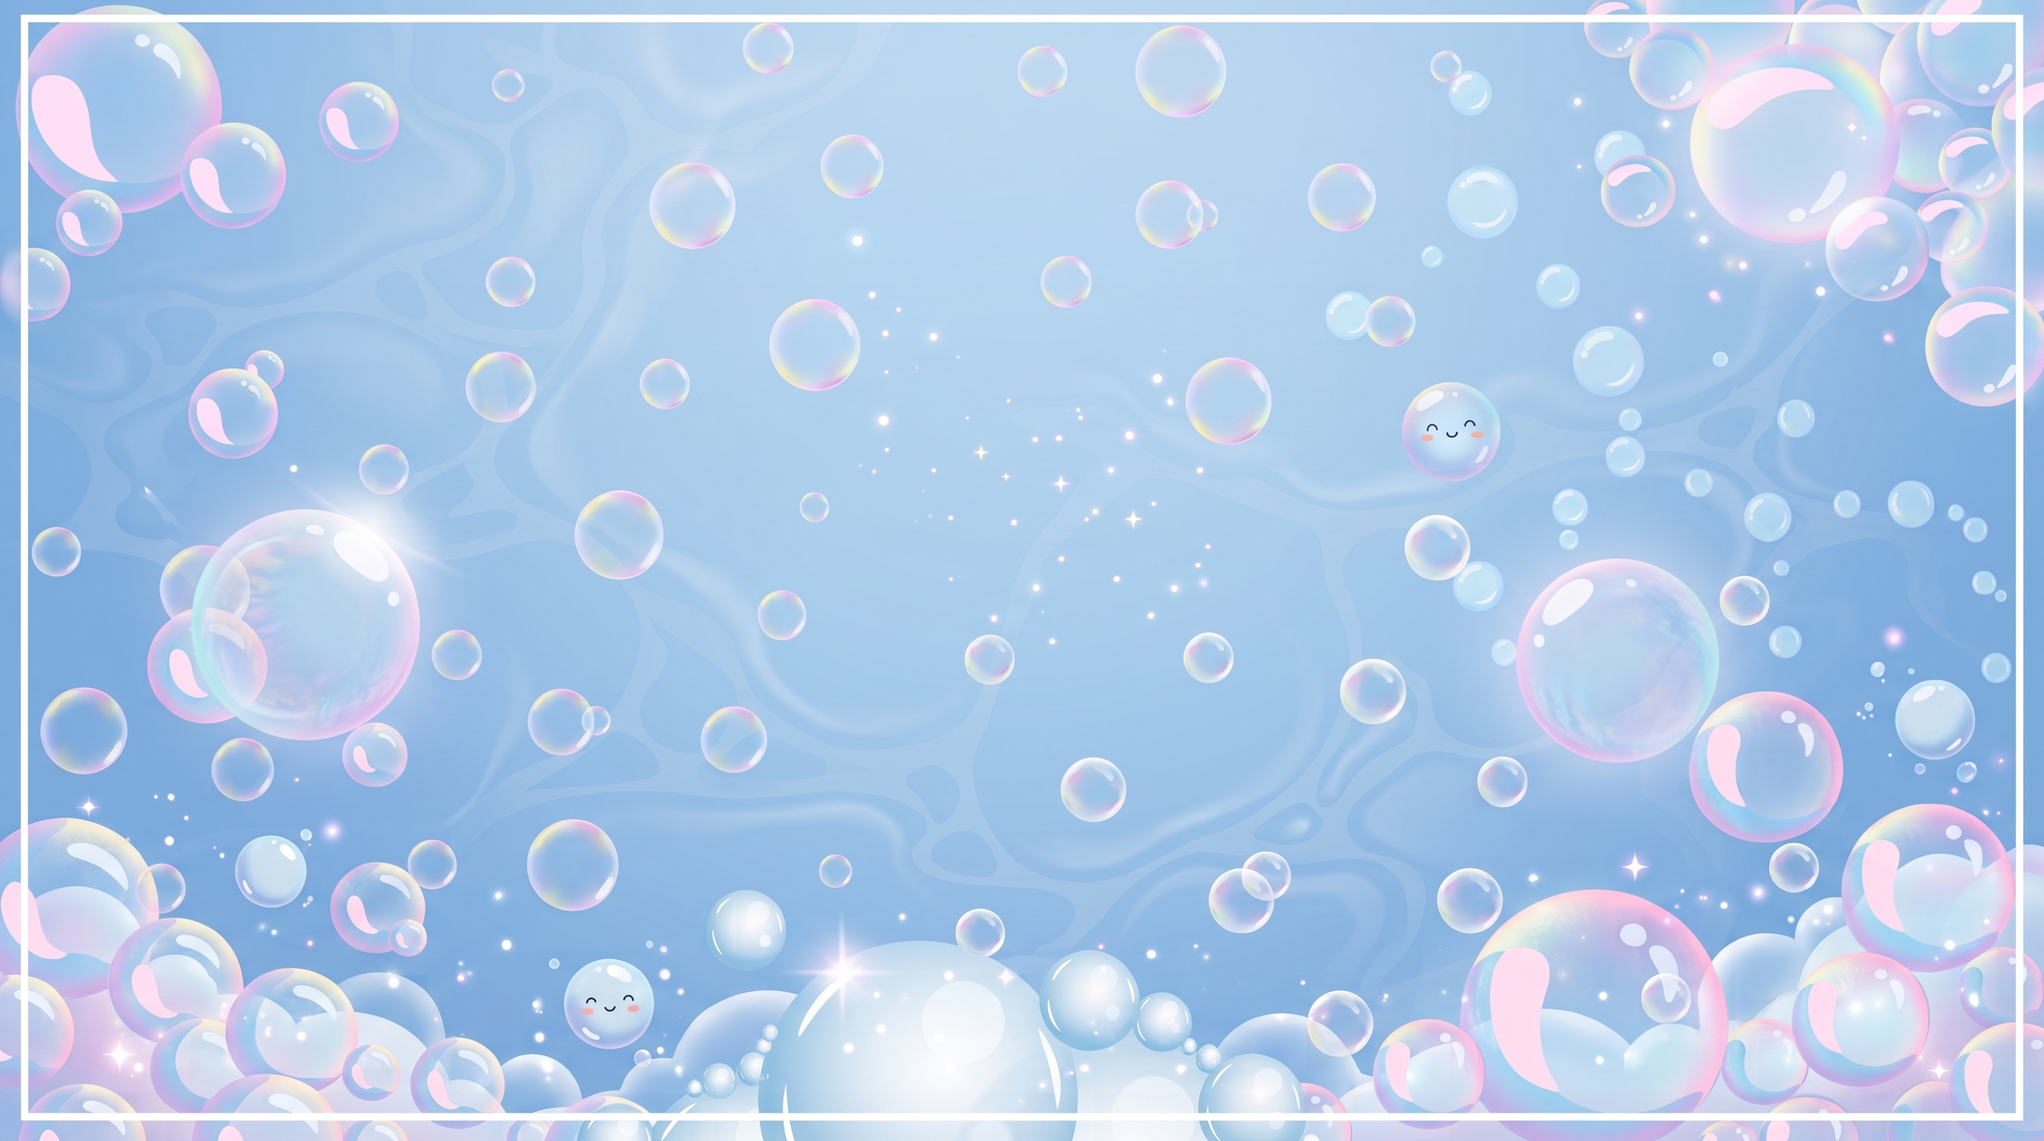
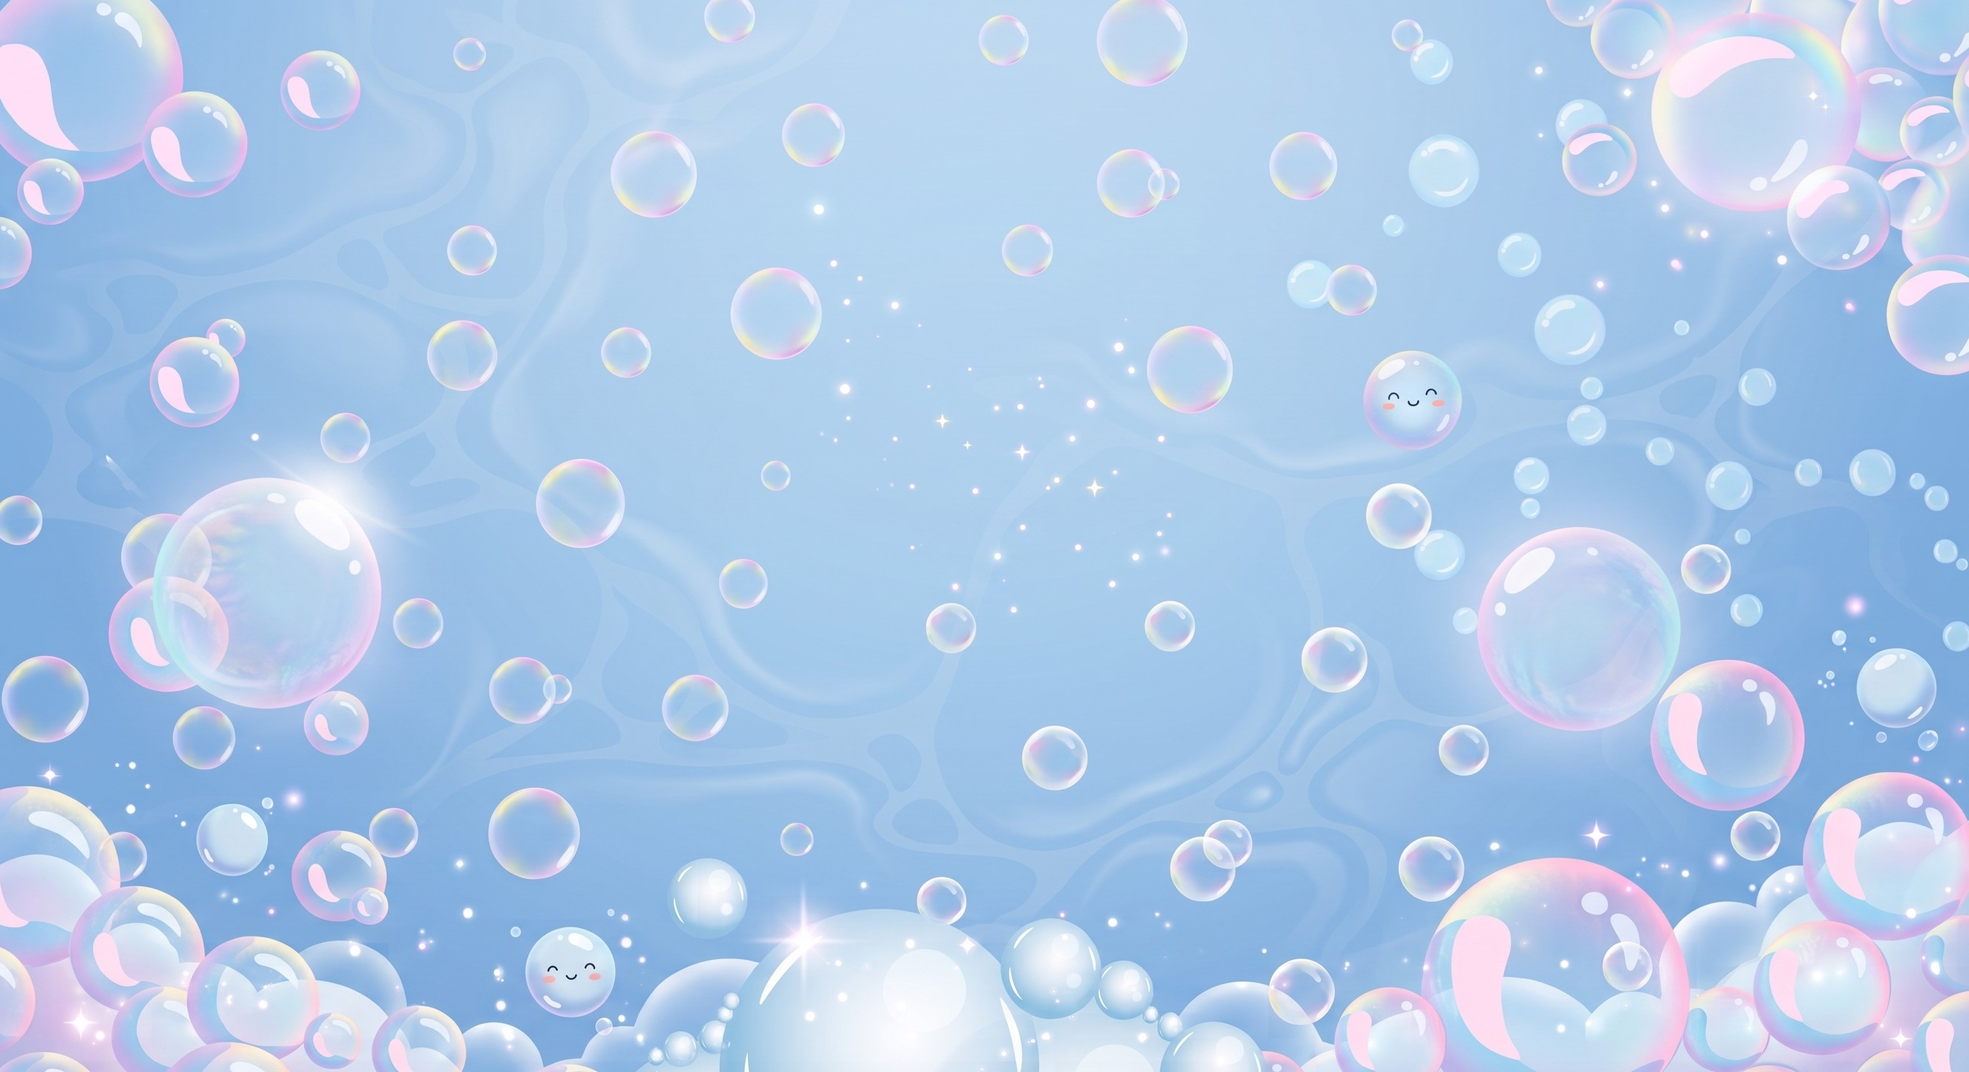
UI refine template

diff --git a/pabasa_site/pabasa_app/templates/pabasa_app/word_decoding_page.html b/pabasa_site/pabasa_app/templates/pabasa_app/word_decoding_page.html
@@ -1,7 +1,7 @@
 {% load static %}
 <!doctype html><html lang="en"><head><meta charset="utf-8"><meta name="viewport" content="width=device-width,initial-scale=1"><title>Decode the Word | PABASA</title><link rel="stylesheet" href="https://cdn.jsdelivr.net/npm/bootstrap-icons@1.11.3/font/bootstrap-icons.min.css"><style>
 @font-face{font-family:"Super Bubble";src:url("{% static 'pabasa_app/font/Super Bubble.ttf' %}") format("truetype");font-weight:normal;font-style:normal;font-display:swap}
-:root{--ink:#12395a;--green:#68ce94}*{box-sizing:border-box}body{margin:0;min-height:100dvh;overflow:hidden;color:var(--ink);font-family:"Super Bubble",Arial,sans-serif;background:#a8cdeb url("{% static 'pabasa_app/images/word-decoding-bg.jpg' %}") center / cover no-repeat fixed}button{font-family:inherit}.app{min-height:100dvh;display:grid;place-items:center;padding:22px}.back{position:fixed;z-index:4;top:22px;left:22px;padding:9px 15px;border:2px solid #fff;color:#fff;text-decoration:none;border-radius:999px;background:#0d5d9199;font-weight:900}.round{position:fixed;z-index:4;top:27px;right:28px;color:#fff;font-weight:1000;text-shadow:0 2px #0e5683}.board{position:relative;width:min(800px,100%);padding:clamp(32px,5vw,56px);border:7px solid #eaffff;border-radius:38px;text-align:center;background:linear-gradient(145deg,#ffffffdb,#c9f8f4e6);box-shadow:0 18px 0 #126a9b99,0 30px 58px #0b416466;overflow:hidden}.board:before{content:"";position:absolute;inset:auto -10% -79%;height:85%;border-radius:50%;background:#66d2e7;opacity:.34}.board>*{position:relative}.eyebrow{margin:0 0 9px;color:#0b6897;font-size:.82rem;font-weight:1000;letter-spacing:.14em;text-transform:uppercase}.word{margin:0;font-size:clamp(2.8rem,10vw,5.8rem);line-height:1;color:#0b4c79;text-shadow:0 3px #fff}.plus{padding:0 .16em;color:#f29a43}.instruction{margin:16px 0;font-size:clamp(1rem,2.5vw,1.2rem);font-weight:900}.checks{display:flex;justify-content:center;gap:clamp(9px,2vw,18px);min-height:64px;margin-bottom:22px}.check{width:clamp(45px,8vw,65px);height:clamp(45px,8vw,65px);display:grid;place-items:center;border:3px dashed #62b8cf;border-radius:13px;color:#fff;background:#eaffff;font-size:clamp(1.8rem,5vw,2.6rem);font-weight:1000}.check.correct{border-style:solid;border-color:#52b979;background:var(--green)}.check.wrong{border-style:solid;border-color:#df5a6c;background:#ef7180}.choices{display:flex;justify-content:center;gap:clamp(18px,4vw,42px);margin:auto}.choice{position:relative;width:clamp(112px,20vw,154px);height:clamp(112px,20vw,154px);border:4px solid #fff;border-radius:50%;background:linear-gradient(145deg,#75dbe8,#258ebe);box-shadow:inset -14px -16px #07517a28,0 8px 0 #0d668f66;cursor:pointer;transition:.2s}.choice:nth-child(2){background:linear-gradient(145deg,#f9bb6a,#ed8252)}.choice:nth-child(3){background:linear-gradient(145deg,#a690e1,#7359ac)}.choice:hover:not(:disabled){transform:translateY(-7px) scale(1.04)}.choice:disabled{cursor:default}.listen{position:absolute;z-index:2;top:calc(100% + 12px);left:50%;width:46px;height:46px;border:3px solid #fff;border-radius:50%;color:#0d5d91;background:#ffec9b;box-shadow:0 4px 0 #bf8535;cursor:pointer;font-size:1.15rem;transform:translateX(-50%)}.choice-correct{outline:6px solid #fff4a7;filter:brightness(1.12)}.choice-wrong{filter:grayscale(.55);opacity:.6}.word-read{display:none;margin:auto;padding:14px 20px;border:0;border-radius:15px;color:#fff;background:linear-gradient(135deg,#f36e83,#c94f6d);box-shadow:0 6px 0 #96384f;font-weight:1000;cursor:pointer;font-size:1rem}.word-read.show{display:inline-block}.word-read.listening{background:#eea142}.status{min-height:24px;margin:58px 0 0;font-weight:900}.complete{position:fixed;z-index:10;inset:0;display:none;place-items:center;padding:22px;background:#0d3d5ae8}.complete.show{display:grid}.complete-card{width:min(470px,100%);padding:42px 28px;border:6px solid #fff;border-radius:34px;color:#fff;text-align:center;background:linear-gradient(145deg,#209bc5,#0c5e96);box-shadow:0 13px 0 #073e65}.complete-card h1{margin:0;font-size:clamp(2rem,6vw,3rem)}.complete-card strong{display:block;margin:18px 0;font-size:clamp(3.5rem,12vw,5rem)}.complete-card button{padding:13px 20px;border:0;border-radius:12px;color:#104f72;background:#fff0a1;font-weight:1000;cursor:pointer}@media(max-width:560px){.app{padding:12px}.back{top:12px;left:12px}.round{top:17px;right:15px;font-size:.82rem}.board{padding:60px 15px 28px;border-width:5px}.choices{gap:12px}.choice{width:92px;height:92px}.listen{top:calc(100% + 8px);width:39px;height:39px}.checks{margin-bottom:13px}.instruction{margin:10px 0}.status{margin-top:49px}}
+:root{--ink:#12395a;--green:#68ce94}*{box-sizing:border-box}body{margin:0;min-height:100dvh;overflow:hidden;color:var(--ink);font-family:"Super Bubble",Arial,sans-serif;background:#a8cdeb url("{% static 'pabasa_app/images/word-decoding-bg.jpg' %}") center / cover no-repeat fixed}button{font-family:inherit}.app{min-height:100dvh;display:grid;place-items:center;padding:22px}.back{position:fixed;z-index:4;top:22px;left:22px;padding:9px 15px;border:2px solid #fff;color:#fff;text-decoration:none;border-radius:999px;background:#0d5d9199;font-weight:900}.round{position:fixed;z-index:4;top:27px;right:28px;color:#fff;font-weight:1000;text-shadow:0 2px #0e5683}.board{position:relative;width:min(800px,100%);padding:clamp(32px,5vw,56px);border:7px solid #eaffff;border-radius:38px;text-align:center;background:linear-gradient(145deg,#ffffffdb,#c9f8f4e6);box-shadow:0 18px 0 #126a9b99,0 30px 58px #0b416466;overflow:hidden}.board:before{content:"";position:absolute;inset:auto -10% -79%;height:85%;border-radius:50%;background:#66d2e7;opacity:.34}.board>*{position:relative}.eyebrow{margin:0 0 9px;color:#0b6897;font-size:.82rem;font-weight:1000;letter-spacing:.14em;text-transform:uppercase}.word{margin:0;font-size:clamp(2.8rem,10vw,5.8rem);line-height:1;color:#0b4c79;text-shadow:0 3px #fff}.plus{padding:0 .16em;color:#f29a43}.instruction{margin:16px 0;font-size:clamp(1rem,2.5vw,1.2rem);font-weight:900}.checks{display:flex;justify-content:center;gap:clamp(9px,2vw,18px);min-height:64px;margin-bottom:22px}.check{width:clamp(45px,8vw,65px);height:clamp(45px,8vw,65px);display:grid;place-items:center;border:3px dashed #62b8cf;border-radius:13px;color:#fff;background:#eaffff;font-size:clamp(1.8rem,5vw,2.6rem);font-weight:1000}.check.correct{border-style:solid;border-color:#52b979;background:var(--green)}.check.wrong{border-style:solid;border-color:#df5a6c;background:#ef7180}.choices{display:flex;justify-content:center;gap:clamp(18px,4vw,42px);margin:auto}.choice{position:relative;width:clamp(112px,20vw,154px);height:clamp(112px,20vw,154px);border:4px solid #fff;border-radius:50%;background:linear-gradient(145deg,#75dbe8,#258ebe);box-shadow:inset -14px -16px #07517a28,0 8px 0 #0d668f66;cursor:pointer;transition:.2s}.choice:nth-child(2){background:linear-gradient(145deg,#f9bb6a,#ed8252)}.choice:nth-child(3){background:linear-gradient(145deg,#a690e1,#7359ac)}.choice:hover:not(:disabled){transform:translateY(-7px) scale(1.04)}.choice:disabled{cursor:default}.listen{position:absolute;z-index:2;top:calc(100% + 12px);left:50%;width:46px;height:46px;border:3px solid #fff;border-radius:50%;color:#0d5d91;background:#ffec9b;box-shadow:0 4px 0 #bf8535;cursor:pointer;font-size:1.15rem;transform:translateX(-50%)}.choice-correct{outline:6px solid #fff4a7;filter:brightness(1.12)}.choice-wrong{filter:grayscale(.55);opacity:.6}.word-read{display:none;margin:auto;padding:14px 20px;border:0;border-radius:15px;color:#fff;background:linear-gradient(135deg,#f36e83,#c94f6d);box-shadow:0 6px 0 #96384f;font-weight:1000;cursor:pointer;font-size:1rem}.word-read.show{display:inline-block}.word-read.listening{background:#eea142}.status{min-height:24px;margin:58px 0 0;font-weight:900}.complete{position:fixed;z-index:10;inset:0;display:none;place-items:center;padding:22px;background:#0d3d5ae8}.complete.show{display:grid}.complete-card{width:min(470px,100%);padding:42px 28px;border:6px solid #fff;border-radius:34px;color:#fff;text-align:center;background:linear-gradient(145deg,#209bc5,#0c5e96);box-shadow:0 13px 0 #073e65}.complete-card h1{margin:0;font-size:clamp(2rem,6vw,3rem)}.complete-card strong{display:block;margin:18px 0;font-size:clamp(3.5rem,12vw,5rem)}.complete-card button{padding:13px 20px;border:0;border-radius:12px;color:#104f72;background:#fff0a1;font-weight:1000;cursor:pointer}@media(max-width:560px){.app{padding:12px}.back{top:12px;left:12px}.round{top:17px;right:15px;font-size:.82rem}.board{padding:60px 15px 28px;border-width:5px}.choices{gap:12px}.choice{width:92px;height:92px}.listen{top:calc(100% + 8px);width:39px;height:39px}.checks{margin-bottom:13px}.instruction{margin:10px 0}.status{margin-top:49px}}/* Bubble-board presentation aligned to the supplied bubble background. */.board{width:min(800px,calc(100% - 32px));background:linear-gradient(145deg,#ffffffdf,#c9f8f4e8);box-shadow:0 18px 0 #277faa99,0 30px 58px #17577a66}.board:before{background:#78d9e7;opacity:.27}.choice{box-shadow:inset -14px -16px #07517a28,0 8px 0 #0d668f66,0 13px 20px #0c4e7240}.listen{box-shadow:0 4px 0 #bf8535,0 7px 12px #0c4e7240}
 </style></head><body><main class="app"><a class="back" href="{% url 'assessment' %}"><i class="bi bi-arrow-left"></i> Back</a><div class="round" id="round"></div><section class="board"><p class="eyebrow">Bubble Word Decoding</p><h1 class="word" id="word"></h1><p class="instruction" id="instruction"></p><div class="checks" id="checks"></div><div class="choices" id="choices"></div><button class="word-read" id="wordRead" type="button"><i class="bi bi-mic-fill"></i> Read the whole word</button><p class="status" id="status" aria-live="polite"></p></section></main><section class="complete" id="complete"><div class="complete-card"><h1>Decoding Complete!</h1><p>You completed the word set.</p><strong id="score"></strong><button id="finish" type="button">Back to Assessments</button></div></section><script>
 (()=>{'use strict';const material={{ word_decoding_material_json|safe }},completion={{ word_decoding_completion_json|safe }},items=Array.isArray(material.items)?material.items.filter(x=>x&&x.word).slice(0,5):[];let round=0,letterIndex=0,chances=0,locked=false,answers=[];const $=id=>document.getElementById(id),isEnglish=String(material.language).toLowerCase()==='english',alphabet=isEnglish?['A','E','I','O','U','B','C','D','F','G','H','K','L','M','N','P','R','S','T']:['A','E','I','O','U','B','D','G','H','K','L','M','N','P','R','S','T'],language=isEnglish?'en-US':'fil-PH';const word=()=>items[round]||null,letters=()=>Array.from(String(word()?.word||'').toUpperCase());function audioToken(letter){return isEnglish||['A','E','I','O','U'].includes(letter)?letter:`${letter}A`}function playChoiceSound(letter){const token=audioToken(letter),category=['A','E','I','O','U'].includes(token)?'vowels':'syllables',audioLanguage=isEnglish?'english':'filipino',code=isEnglish?'E':'T',audio=new Audio(`/static/pabasa_app/audio/phonics/${audioLanguage}/${category}/${encodeURIComponent(token)}%20(${code}).MP3`);audio.play().catch(()=>{$('status').textContent='Unable to play that sound. Please try again.'})}function options(target){const pool=alphabet.filter(x=>x!==target),seed=(round+1)*37+(letterIndex+1)*19,wrong=[pool[seed%pool.length],pool[(seed*5+3)%pool.length]].filter((x,i,a)=>a.indexOf(x)===i);while(wrong.length<2)wrong.push(pool[(seed+wrong.length+9)%pool.length]);return [target,...wrong].sort((a,b)=>((a.charCodeAt(0)+seed)%11)-((b.charCodeAt(0)+seed)%11))}function render(){if(!word()){finish();return}letterIndex=0;chances=0;locked=false;$('round').textContent=`Round ${round+1} of ${items.length}`;$('word').innerHTML=letters().map(x=>`<span>${x}</span>`).join('<span class="plus"> + </span>');$('checks').innerHTML=letters().map(()=>'<span class="check"></span>').join('');$('wordRead').classList.remove('show');$('status').textContent='';renderChoices()}function renderChoices(){const target=letters()[letterIndex];$('instruction').textContent=`Listen to each bubble. Choose the sound for “${target}”. ${2-chances} chance${2-chances===1?'':'s'} left.`;$('choices').innerHTML=options(target).map(x=>`<button class="choice" type="button" data-letter="${x}" aria-label="Choose this sound"><span class="listen" role="button" tabindex="0" data-listen="${x}" aria-label="Hear this sound"><i class="bi bi-volume-up-fill"></i></span></button>`).join('');document.querySelectorAll('[data-listen]').forEach(x=>x.addEventListener('click',e=>{e.stopPropagation();playChoiceSound(x.dataset.listen)}));document.querySelectorAll('.choice').forEach(x=>x.addEventListener('click',()=>choose(x.dataset.letter,x)))}function choose(value,button){if(locked)return;locked=true;const correct=value===letters()[letterIndex],box=[...document.querySelectorAll('.check')][letterIndex];if(correct){document.querySelectorAll('.choice').forEach(x=>x.disabled=true);button.classList.add('choice-correct');box.textContent='✓';box.className='check correct';letterIndex++;if(letterIndex===letters().length){$('choices').innerHTML='';$('instruction').textContent='All letters are checked! Read the whole word to continue.';$('wordRead').classList.add('show');$('status').textContent='';locked=false;return}$('status').textContent='Correct! Next letter…';chances=0;setTimeout(()=>{locked=false;renderChoices()},550);return}button.disabled=true;button.classList.add('choice-wrong');chances++;box.textContent='×';box.className='check wrong';if(chances<2){$('status').textContent='Try one of the remaining bubbles.';locked=false;return}$('status').textContent='Two tries used. The next word is ready.';answers.push({word:word().word,letter_sounds_completed:false,word_completed:false});setTimeout(()=>{round++;render()},1050)}function normalize(value){return String(value||'').toLocaleLowerCase().normalize('NFD').replace(/[\u0300-\u036f]/g,'').replace(/[^a-z]/g,'')}function readWholeWord(){if(locked)return;const Recognition=window.SpeechRecognition||window.webkitSpeechRecognition;if(!Recognition){$('status').textContent='Speech recognition is not available in this browser.';return}locked=true;$('wordRead').classList.add('listening');$('wordRead').innerHTML='<i class="bi bi-soundwave"></i> Listening…';const recognition=new Recognition();recognition.lang=language;recognition.interimResults=false;recognition.maxAlternatives=3;recognition.onresult=e=>{const expected=normalize(word().word),heard=[...e.results[0]].map(x=>normalize(x.transcript)),matched=heard.some(x=>x===expected||x.includes(expected));if(matched){answers.push({word:word().word,letter_sounds_completed:true,word_completed:true});$('status').textContent='Great reading! Next word…';setTimeout(()=>{round++;render()},750)}else $('status').textContent='Try reading the whole word again.'};recognition.onerror=()=>{$('status').textContent='I could not hear that. Try again.'};recognition.onend=()=>{locked=false;$('wordRead').classList.remove('listening');$('wordRead').innerHTML='<i class="bi bi-mic-fill"></i> Read the whole word'};recognition.start()}async function finish(){try{const res=await fetch('{% url "record_assessment_completion" %}',{method:'POST',headers:{'Content-Type':'application/json','X-CSRFToken':document.cookie.split('; ').find(x=>x.startsWith('csrftoken='))?.split('=')[1]||''},body:JSON.stringify({material_id:material.id,activity_type:'word_decoding',status:'completed',items_completed:items.length,scores:{answers,duration_seconds:Math.round(performance.now()/1000)}})}),data=await res.json();if(!res.ok||!data.success)throw Error(data.error)}catch(e){$('status').textContent='Your result could not be saved. Please try again.';return}$('score').textContent=`${answers.filter(x=>x.word_completed).length} / ${items.length}`;$('complete').classList.add('show')}$('wordRead').addEventListener('click',readWholeWord);$('finish').addEventListener('click',()=>location.href='{% url "assessment" %}');if(completion.completed){$('score').textContent=`${completion.correct_items||0} / ${completion.total_items||items.length}`;$('complete').classList.add('show')}else if(items.length)render();else $('instruction').textContent='This activity has no available words.'})()
 </script></body></html>

diff --git a/pabasa_site/pabasa_app/templates/pabasa_app/letter_sound_correspondence_page.html b/pabasa_site/pabasa_app/templates/pabasa_app/letter_sound_correspondence_page.html
@@ -130,6 +130,18 @@
     .roulette-stage .roulette.spinning{animation-duration:5s;animation-timing-function:cubic-bezier(.12,.72,.18,1)}.feedback{bottom:clamp(36px,5dvh,54px)}@media(max-width:700px){.feedback{bottom:clamp(32px,4.5dvh,46px)}}
     body.completion-view .top,body.completion-view .sign,body.completion-view .roulette-stage,body.completion-view .dart,body.completion-view .instruction,body.completion-view .feedback{display:none!important}body.completion-view .complete{position:fixed;z-index:100;inset:0;padding:24px;background:rgba(31,39,62,.9)}body.completion-view .complete-card{font-family:"Carnevalee",Georgia,serif}body.completion-view .complete-card h2{font-family:"Carnevalee",Georgia,serif}body.completion-view .complete-card p,body.completion-view .complete-card strong{font-family:"Carnevalee",Georgia,serif;letter-spacing:.035em}body.completion-view .complete-card strong{font-size:clamp(3.3rem,8vw,4.7rem)}
   </style>
+  <style>
+    /* Dedicated carnival artwork and roulette treatment. */
+    body{background:#d5a554 url("{% static 'pabasa_app/images/carnival.jpg' %}") center/cover fixed no-repeat}
+    .roulette-stage .roulette{border:12px solid #722329;background:conic-gradient(#b63e3d 0 72deg,#45758b 72deg 144deg,#d39a39 144deg 216deg,#4f866f 216deg 288deg,#715a8a 288deg);box-shadow:0 0 0 4px #e9bf5c,0 0 0 11px #7d2629,0 15px 0 #4e171d,0 24px 39px #4a1b1b99}
+    .roulette-stage .roulette:before{border-color:#f7e5bcaa}
+    .letter-target{border-color:#f6dc8d;color:#70282a;background:radial-gradient(circle at 34% 28%,#fff6cf,#e7b14d 58%,#a9632d 61%);box-shadow:0 0 0 7px #762329,0 11px 0 #4e171d,0 18px 28px #4a1b1b88}
+    .audio-handle{border-color:#f8e6ad;color:#70282a;background:linear-gradient(145deg,#fff1a2,#cf7b2d);box-shadow:0 4px 0 #712329,0 6px 9px #4a1b1b88}
+    .balloon{border-color:#fff0cf;box-shadow:inset -10px -10px #3e17151c,0 5px 9px #49181888}
+    .b0{background:#b63e3d}.b1{background:#45758b}.b2{background:#d39a39}.b3{background:#4f866f}.b4{background:#715a8a}
+    .instruction{border-color:#853027;color:#65231e;background:#fff1cfef;box-shadow:0 4px 0 #b76d32}
+    .feedback{color:#68231d;text-shadow:0 1px #ffedc0}
+  </style>
 </head>
 <body><div class="stars"></div><main class="app"><header class="top"><a class="back" href="{% url 'assessment' %}"><i class="bi bi-arrow-left"></i> Back</a><div class="score" id="progress">Round 1 of 0</div></header><section class="sign"><h1>Match the Letter to Its Sound</h1></section><section class="stall" id="stall"><div class="roulette-stage"><div class="roulette" id="roulette"><div class="letter-target" id="letterTarget" aria-label="Target letter"></div><button class="balloon b0" data-choice-index="0" aria-label="Choose balloon 1"></button><button class="balloon b1" data-choice-index="1" aria-label="Choose balloon 2"></button><button class="balloon b2" data-choice-index="2" aria-label="Choose balloon 3"></button><button class="balloon b3" data-choice-index="3" aria-label="Choose balloon 4"></button><button class="balloon b4" data-choice-index="4" aria-label="Choose balloon 5"></button><button class="audio-handle h0" data-audio-index="0" aria-label="Play balloon 1 sound"><i class="bi bi-volume-up-fill"></i></button><button class="audio-handle h1" data-audio-index="1" aria-label="Play balloon 2 sound"><i class="bi bi-volume-up-fill"></i></button><button class="audio-handle h2" data-audio-index="2" aria-label="Play balloon 3 sound"><i class="bi bi-volume-up-fill"></i></button><button class="audio-handle h3" data-audio-index="3" aria-label="Play balloon 4 sound"><i class="bi bi-volume-up-fill"></i></button><button class="audio-handle h4" data-audio-index="4" aria-label="Play balloon 5 sound"><i class="bi bi-volume-up-fill"></i></button></div></div><div class="dart" id="dart"></div><p class="instruction">Tap a handle to hear its balloon, then pop the balloon that matches the letter.</p><p class="feedback" id="feedback" aria-live="polite"></p><div class="complete" id="complete"><div class="complete-card"><h2>Assessment Complete</h2><p id="completionLabel">Correct Balloon Popped!</p><strong id="finalScore">0 / 0</strong><button id="finishButton">Back to Assessments</button></div></div></section></main>
 <script>
